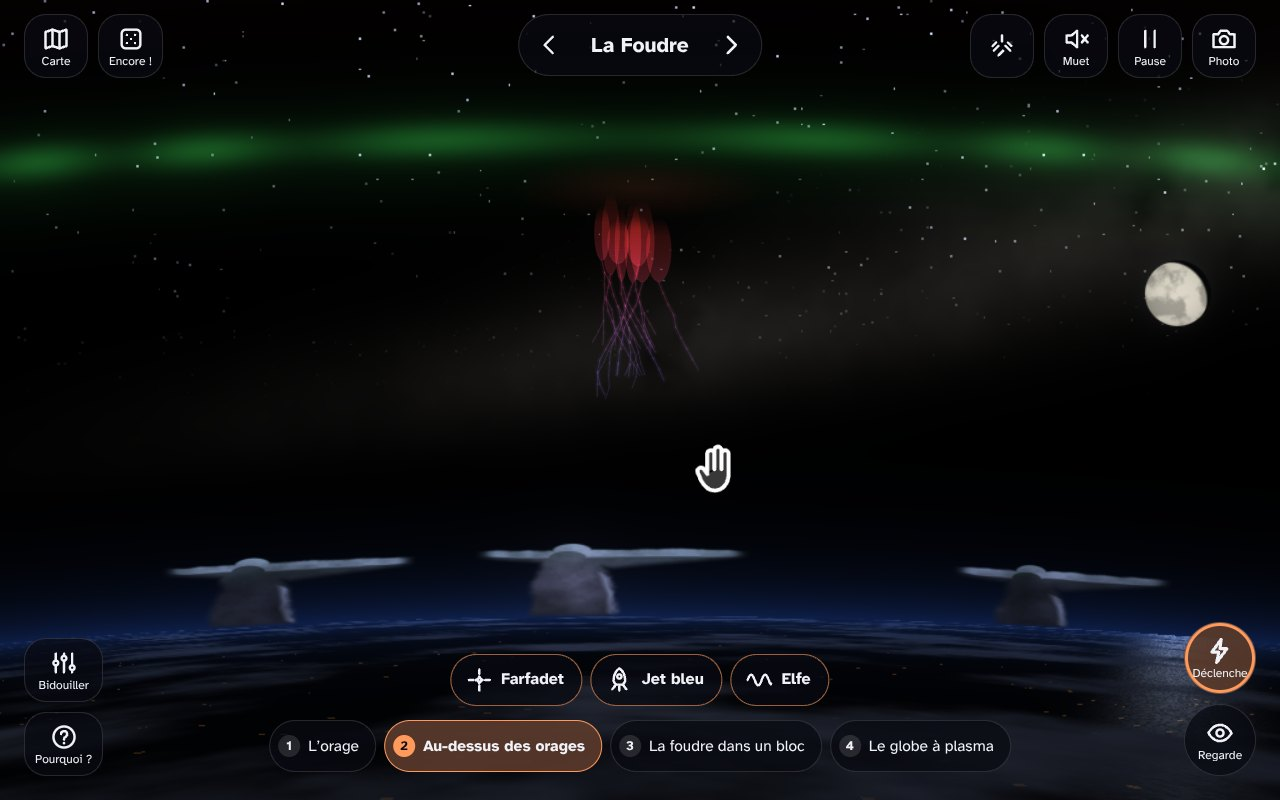
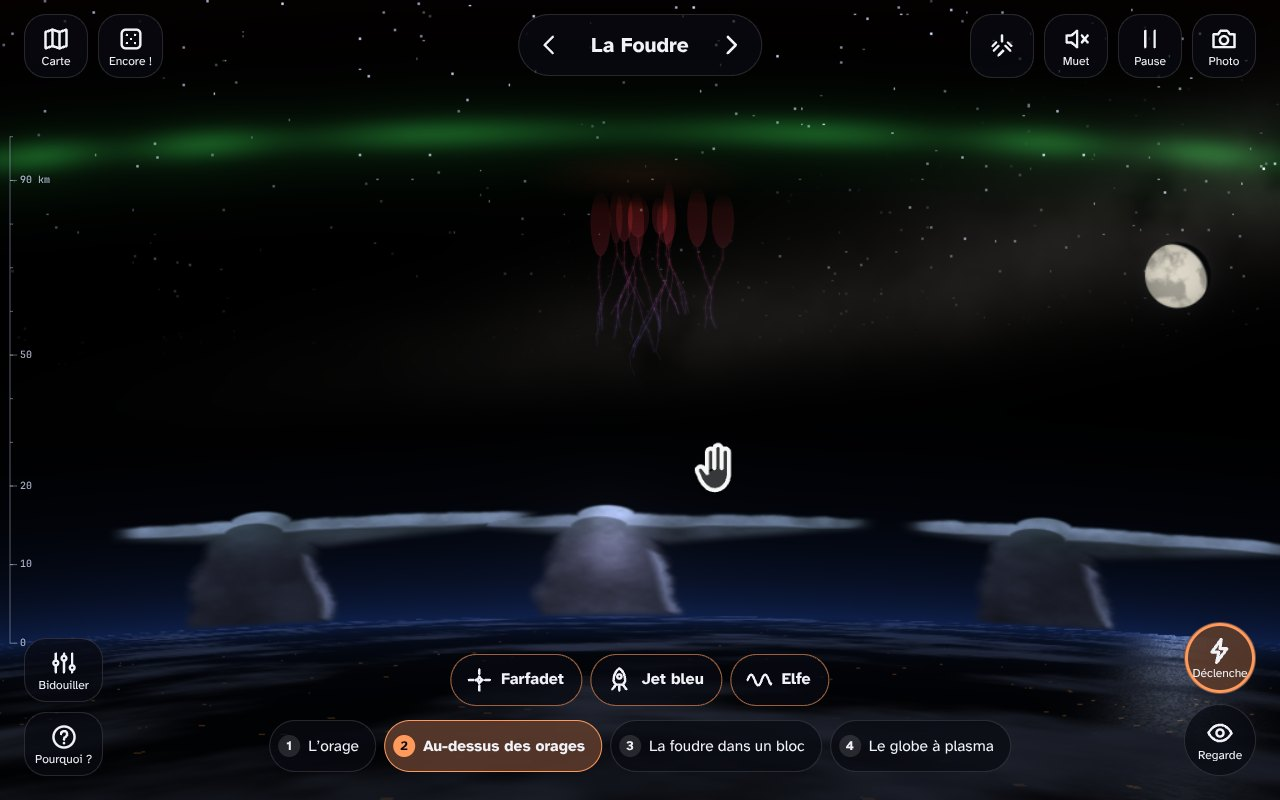
Foudre : « Au-dessus des orages » à la règle des altitudes dilatée sous 20 km (×1,8), graduée en vraies valeurs
Accord de Kurt, quatre conditions tenues :
- axe gradué en vraies altitudes (0, 10, 20, 50, 90 km ; petits traits tous les 10 km qui se resserrent au-dessus
  de 20 km), règle continue
- chaque objet à sa vraie altitude, lue sur la règle : sommets 11-15 km, jets bleus jusqu'à 40-50 km, farfadets
  50-90 km, elfes vers 90 km, lueur nocturne vers 95 km
- annoncé dans la notice et dans l'OBSERVER
- même règle en paysage et en portrait ; deux orages au lieu de trois sur écran étroit

Claude-Session: https://claude.ai/code/session_01MS9d5JmMjbNw1P1jiRQA2y

diff --git a/app/js/machines/s-foudre.js b/app/js/machines/s-foudre.js
@@ -65,7 +65,9 @@ void main(){
   o = vec4(col, 1.);
 }`;
   const FS_ATMO = HEAD + FBM + `
-uniform float uHz, uKm, uGlow, uCurv, uMI; uniform vec3 uMoon; uniform vec4 uSt[3]; out vec4 o;
+uniform float uHz, uKm, uK1, uGlow, uCurv, uMI; uniform vec3 uMoon; uniform vec4 uSt[3]; out vec4 o;
+// altitude (km) d'une hauteur au-dessus du limbe (px) : règle dilatée ×1,8 sous 20 km (uK1 px/km), vraie au-dessus (uKm)
+float hk(float dy){ return dy <= 20. * uK1 ? dy / uK1 : 20. + (dy - 20. * uK1) / uKm; }
 // un cumulonimbus vu de côté (km) : une colonne bosselée jusqu'à 11-15 km, l'enclume plate sous la tropopause,
 // étirée par le vent d'altitude, et le dôme qui la perce au-dessus de la colonne
 float cb(float dxk, float h, float q, float n){
@@ -81,7 +83,7 @@ void main(){
   vec2 px = vec2(vUv.x * uRes.x, (1. - vUv.y) * uRes.y);
   float dx = (px.x - uRes.x * .5) / uRes.y;
   float yl = uHz + dx * dx * uRes.y * uCurv;
-  float h = (yl - px.y) / uKm; // altitude au-dessus du limbe, en km
+  float h = hk(yl - px.y); // altitude au-dessus du limbe, en km (règle dilatée sous 20 km)
   float L = lights(px);
   vec3 lc = vec3(.8, .78, 1.);
   vec3 col = vec3(0.);
@@ -120,9 +122,9 @@ void main(){
     // les orages : trois cumulonimbus toujours là, que leurs éclairs allument de l'intérieur
     float cl = 0., nn = .5, top = 0., ml = 0.;
     for (int i = 0; i < 3; i++){
-      float dxk = (px.x - uSt[i].x) / uKm;
+      float dxk = (px.x - uSt[i].x) / uK1;   // les orages, dessinés à l'échelle de la règle dilatée (dans les deux sens)
       if (dxk < -40. || dxk > 70.) continue;
-      float n = fbm5(vec2(px.x / uKm * .16 + float(i) * 7.3, h * .3 - uT * .01));
+      float n = fbm5(vec2(px.x / uK1 * .16 + float(i) * 7.3, h * .3 - uT * .01));
       float c = cb(dxk, h, uSt[i].y, n);
       if (c > cl){
         cl = c; nn = n; top = smoothstep(7., 15., h);
@@ -621,15 +623,21 @@ void main(){
     const yTop = Math.max(H * 0.06, ((env.view && env.view.y0) || 0) + 8);
     // en portrait, le limbe à mi-hauteur utile : les orages restent au-dessus des boutons du bas, et sous le limbe on
     // voit la mer de nuages au clair de lune ; on monte jusque vers 104 km (la lueur nocturne est à 95 km)
-    const HZ = H > W ? yTop + (H - yTop) * 0.56 : yTop + (H - yTop) * 0.74, KM = (HZ - yTop) / 104, CURV = 0.055;
+    // règle des altitudes dilatée ×1,8 sous 20 km, pour voir les orages (accord de Kurt) : continue, graduée en vraies
+    // altitudes, et chaque objet reste à sa vraie altitude ; KM = px par km au-dessus de 20 km, K1 en dessous
+    const ZD = 20, DIL = 1.8;
+    const HZ = H > W ? yTop + (H - yTop) * 0.56 : yTop + (H - yTop) * 0.74, KM = (HZ - yTop) / (104 + ZD * (DIL - 1)), K1 = KM * DIL, CURV = 0.055;
+    const kmPx = (km) => (km <= ZD ? km * K1 : ZD * K1 + (km - ZD) * KM);
+    const pxKm = (dy) => (dy <= ZD * K1 ? dy / K1 : ZD + (dy - ZD * K1) / KM);
     // la Lune (x, y, rayon) : à droite, dans le vide entre la lueur nocturne et les orages, à l'écart des farfadets
-    const MOON = H > W ? [W * 0.88, HZ - 66 * KM, Math.min(W, H) * 0.045] : [W * 0.92, HZ - 64 * KM, H * 0.042];
+    const MOON = H > W ? [W * 0.88, HZ - kmPx(62), Math.min(W, H) * 0.045] : [W * 0.92, HZ - kmPx(62), H * 0.042];
     const limbY = (x) => { const d = (x - W / 2) / H; return HZ + d * d * H * CURV; };
-    const alt = (x, km) => limbY(x) - km * KM;
+    const alt = (x, km) => limbY(x) - kmPx(km);
     let storms = [], tles = [];
     function buildAtmo() {
       // dans la partie visible, à l'écart des coins (où le Labo pose ses boutons ronds)
-      const v = view(), fx = v.w < 600 ? [0.24, 0.5, 0.74] : [0.18, 0.47, 0.78];
+      // sur écran étroit, deux orages (à la règle dilatée, trois se fondaient en un seul)
+      const v = view(), fx = v.w < 600 ? [0.28, 0.72] : [0.18, 0.47, 0.78];
       storms = fx.map((f) => ({ x: v.x0 + v.w * (f + rnd(0.04, -0.04)), q: rnd(1, 0), fl: [], cd: rnd(3, 0.5) }));
     }
     function makeSprite(x) {
@@ -654,12 +662,12 @@ void main(){
     }
     function makeJet(st, giant) {
       const base = { x: st.x + rnd(20, -20) * kS, y: alt(st.x, 16) };
-      const top = giant ? 86 : rnd(46, 36);
+      const top = giant ? 86 : rnd(50, 40);
       const strs = [];
       const n = giant ? 14 : 10;
       for (let i = 0; i < n; i++) {
         const pts = [{ x: base.x, y: base.y }]; let a = -Math.PI / 2 + rnd(0.24, -0.24), px = base.x, py = base.y;
-        const L = (top - 16) * KM * rnd(1, 0.7);
+        const L = (kmPx(top) - kmPx(16)) * rnd(1, 0.75);
         for (let s = 0; s < L; s += 2.2 * KM) { a += rnd(0.2, -0.2); a = clamp(a, -Math.PI / 2 - 0.4, -Math.PI / 2 + 0.4); px += Math.cos(a) * 2.2 * KM; py += Math.sin(a) * 2.2 * KM; pts.push({ x: px, y: py }); }
         strs.push(pts);
       }
@@ -1084,8 +1092,8 @@ void main(){
       for (const st of storms) for (const f of st.fl) lights.push([st.x, alt(st.x, 10), f.a * (dx ? 0.55 * (1 - Math.exp(-f.t / 0.05)) * Math.exp(-f.t / 0.14) : Math.exp(-f.t / 0.08) * (0.7 + 0.3 * Math.sin(f.t * 90))), 0.05]);
       lights.sort((a, b) => b[2] - a[2]);
       if (!bare) {
-        const ST = new Float32Array(12); storms.slice(0, 3).forEach((st, i) => ST.set([st.x, st.q, 0, 0], i * 4));
-        if (G) skyGL(G.atmo, (P) => P.f('uHz', HZ).f('uKm', KM).f('uGlow', cfg.glow ? 1 : 0).f('uCurv', CURV).f('uMI', cfg.lune ? 1 : 0).f('uMoon', MOON[0], MOON[1], MOON[2]).v4('uSt', ST), lights.slice(0, 8));
+        const ST = new Float32Array(12).fill(-1e5); storms.slice(0, 3).forEach((st, i) => ST.set([st.x, st.q, 0, 0], i * 4));
+        if (G) skyGL(G.atmo, (P) => P.f('uHz', HZ).f('uKm', KM).f('uK1', K1).f('uGlow', cfg.glow ? 1 : 0).f('uCurv', CURV).f('uMI', cfg.lune ? 1 : 0).f('uMoon', MOON[0], MOON[1], MOON[2]).v4('uSt', ST), lights.slice(0, 8));
         else {
           ctx.fillStyle = '#000'; ctx.fillRect(0, 0, W, H);
           ctx.fillStyle = '#05070c'; ctx.beginPath(); ctx.moveTo(0, H); for (let x = 0; x <= W; x += 8) ctx.lineTo(x, limbY(x)); ctx.lineTo(W, H); ctx.fill();
@@ -1129,9 +1137,9 @@ void main(){
               ctx.lineWidth = (pass ? 1 : 5) * kS; ctx.stroke();
             }
                       }
-          const rg = ctx.createRadialGradient(e.base.x, e.base.y, 0, e.base.x, e.base.y, 9 * KM);
+          const rg = ctx.createRadialGradient(e.base.x, e.base.y, 0, e.base.x, e.base.y, 9 * K1);
           rg.addColorStop(0, ink ? `rgba(40,80,180,${0.4 * I})` : `rgba(160,200,255,${0.6 * I})`); rg.addColorStop(1, 'rgba(60,120,255,0)');
-          ctx.fillStyle = rg; ctx.fillRect(e.base.x - 9 * KM, e.base.y - 9 * KM, 18 * KM, 18 * KM);
+          ctx.fillStyle = rg; ctx.fillRect(e.base.x - 9 * K1, e.base.y - 9 * K1, 18 * K1, 18 * K1);
         } else if (e.kind === 'elfe') {
           const k = e.t / e.life, r = k * 190 * KM, a = (1 - k) * 0.55, y = alt(e.x, 90);
           for (const pass of [0, 1]) {
@@ -1140,6 +1148,24 @@ void main(){
             ctx.beginPath(); ctx.ellipse(e.x, y, Math.max(1, r), Math.max(0.5, r * 0.09), 0, 0, TAU); ctx.stroke();
           }
         }
+      }
+      ctx.restore();
+      drawAltAxis(ink);
+    }
+    // la règle des altitudes, graduée en vraies valeurs : repères à 0, 10, 20, 50 et 90 km, petits traits tous les
+    // 10 km, qui se resserrent au-dessus de 20 km (la règle y redevient vraie)
+    function drawAltAxis(ink) {
+      const v = view(), x = v.x0 + 10;
+      ctx.save(); ctx.font = '500 10px "JetBrains Mono", monospace'; ctx.textBaseline = 'middle'; ctx.lineWidth = 1;
+      ctx.strokeStyle = ink ? 'rgba(40,30,80,.45)' : 'rgba(205,218,255,.42)';
+      ctx.fillStyle = ink ? 'rgba(40,30,80,.75)' : 'rgba(215,226,255,.78)';
+      ctx.shadowColor = ink ? 'rgba(255,255,255,.6)' : 'rgba(0,0,0,.9)'; ctx.shadowBlur = 4;
+      ctx.beginPath(); ctx.moveTo(x, alt(x, 0)); ctx.lineTo(x, alt(x, 100)); ctx.stroke();
+      for (let km = 10; km <= 100; km += 10) { const y = alt(x, km); ctx.beginPath(); ctx.moveTo(x, y); ctx.lineTo(x + 3, y); ctx.stroke(); }
+      for (const km of [0, 10, 20, 50, 90]) {
+        const y = alt(x, km);
+        ctx.beginPath(); ctx.moveTo(x, y); ctx.lineTo(x + 7, y); ctx.stroke();
+        ctx.fillText(km === 90 ? '90 km' : String(km), x + 10, y);
       }
       ctx.restore();
     }
@@ -1261,7 +1287,7 @@ void main(){
         }[e.kind];
       }
       if (l.what === 'airglow') return ['Lueur nocturne', 'oxygène atomique · 557,7 nm · ~95 km d’altitude', '#8ad8a0'];
-      if (l.what === 'orage') return ['Sommet d’orage', 'enclume à ~15 km, vue d’en haut · les éclairs l’allument de l’intérieur', '#b9a8ff'];
+      if (l.what === 'orage') return ['Sommet d’orage', 'enclume à ~15 km, vue d’en haut · les éclairs l’allument de l’intérieur · altitudes dilatées sous 20 km (× 1,8) pour voir les orages ; les graduations donnent les vraies valeurs', '#b9a8ff'];
       if (l.what === 'terre') return ['Terre de nuit', 'nuages au clair de lune, lumières des villes, et la Lune qui se reflète sur la mer', '#c8c0b0'];
       if (l.what === 'voie') return ['La Voie lactée', 'notre galaxie vue par la tranche · au-dessus de l’air, le ciel reste noir même au clair de lune', '#e8e0d0'];
       if (l.what === 'lune') return ['La Lune', 'lumière du Soleil renvoyée · elle éclaire le dessus des orages', '#d8d4c8'];
@@ -1279,9 +1305,9 @@ void main(){
         return { what: 'sol', x, y };
       }
       if (cfg.scene === 'atmo') {
-        for (const e of tles) { if (Math.abs(e.x - x) < 40 * kS + (e.kind === 'elfe' ? 100 * KM * (e.t / e.life) : 0) && y < limbY(x) - 10 * KM) return { what: 'tle', e, x: e.x, y: e.kind === 'elfe' ? alt(e.x, 90) : alt(e.x, e.kind === 'sprite' ? 70 : 30) }; }
+        for (const e of tles) { if (Math.abs(e.x - x) < 40 * kS + (e.kind === 'elfe' ? 100 * KM * (e.t / e.life) : 0) && y < limbY(x) - kmPx(10)) return { what: 'tle', e, x: e.x, y: e.kind === 'elfe' ? alt(e.x, 90) : alt(e.x, e.kind === 'sprite' ? 70 : 30) }; }
         if (cfg.lune && Math.hypot(x - MOON[0], y - MOON[1]) < MOON[2] * 1.3) return { what: 'lune', x: MOON[0], y: MOON[1] };
-        const h = (limbY(x) - y) / KM;
+        const h = pxKm(limbY(x) - y);
         if (h > 40 && Math.abs((x / W) * 0.42 + (y / H) * 0.9 - 0.62) < 0.07) return { what: 'voie', x, y };
         if (h < 0) return { what: 'terre', x, y };
         if (h < 18) return { what: 'orage', x, y };
@@ -1388,7 +1414,7 @@ void main(){
         }
         if (cfg.scene === 'atmo') {
           L.push({ type: 'section', label: 'Haute atmosphère' });
-          L.push({ type: 'note', text: 'Vue rasante depuis l’orbite, de nuit : trois orages au ras du limbe. L’échelle verticale est exagérée pour que les 100 km d’atmosphère tiennent dans l’écran.' });
+          L.push({ type: 'note', text: 'Vue rasante depuis l’orbite, de nuit : trois orages au ras du limbe. L’échelle verticale est exagérée pour que les 100 km d’atmosphère tiennent dans l’écran. Altitudes dilatées sous 20 km (× 1,8) pour voir les orages ; les graduations donnent les vraies valeurs.' });
           L.push({ type: 'buttons', items: [
             { label: 'Farfadet', act: () => { const st = storms[rint(storms.length)]; stormFlash(st, false); tles.push(makeSprite(st.x)); } },
             { label: 'Jet bleu', act: () => tles.push(makeJet(storms[rint(storms.length)], false)) },

diff --git a/docs/rendu/RENDU-A.md b/docs/rendu/RENDU-A.md
@@ -191,3 +191,19 @@ Rien ne passe encore à « non moche » en 390 px. Repris :
   - « Au-dessus des orages » : environ 60 % de noir. Le vrai remède serait une échelle des altitudes dilatée sous 20 km, où sont les orages (environ ×1,8), et annoncée. C'est un choix de représentation : je le soumets d'abord à Kurt.
   - Le carton du début, qui couvre les orages, est posé par le shell.
   - L'orage au repos en 390.
+
+## « Au-dessus des orages » : règle des altitudes dilatée sous 20 km (13/11, 20 h 15)
+
+Proposée à Kurt, acceptée à quatre conditions, toutes tenues :
+
+1. **Graduée en vraies altitudes** : un axe sur le bord gauche porte des repères à 0, 10, 20, 50 et 90 km. De petits traits tous les 10 km se resserrent au-dessus de 20 km. La règle est continue, sans coupure : ×1,8 sous 20 km, vraie au-dessus.
+2. **Chaque objet reste à sa vraie altitude**, lue sur la règle (`alt(x, km)` côté JavaScript, `hk(dy)` côté shader) :
+   - sommets d'orage à 11-15 km ;
+   - jets bleus jusqu'à 40-50 km (40 à 50 au lieu de 36 à 46 ; leur longueur se calcule à travers la règle) ;
+   - farfadets de 50 à 90 km ;
+   - elfes vers 90 km, lueur nocturne vers 95 km.
+   Les orages sont dessinés à l'échelle dilatée dans les deux sens, pour garder leur forme.
+3. **Annoncée** dans la notice et dans l'OBSERVER (sommet d'orage) : « Altitudes dilatées sous 20 km (× 1,8) pour voir les orages ; les graduations donnent les vraies valeurs. »
+4. **Même règle en paysage et en portrait.** Sur écran étroit, il y a deux orages au lieu de trois : à cette taille, trois se fondaient en un seul.
+
+Effet : des cumulonimbus environ 1,56 fois plus grands qu'en règle linéaire (et 1,8 fois plus grands que les objets au-dessus de 20 km), et une bande bleue de clair de lune plus haute. Le noir recule nettement. Captures : `foudre-atmo-labo.jpg` et `-tel.jpg`.
